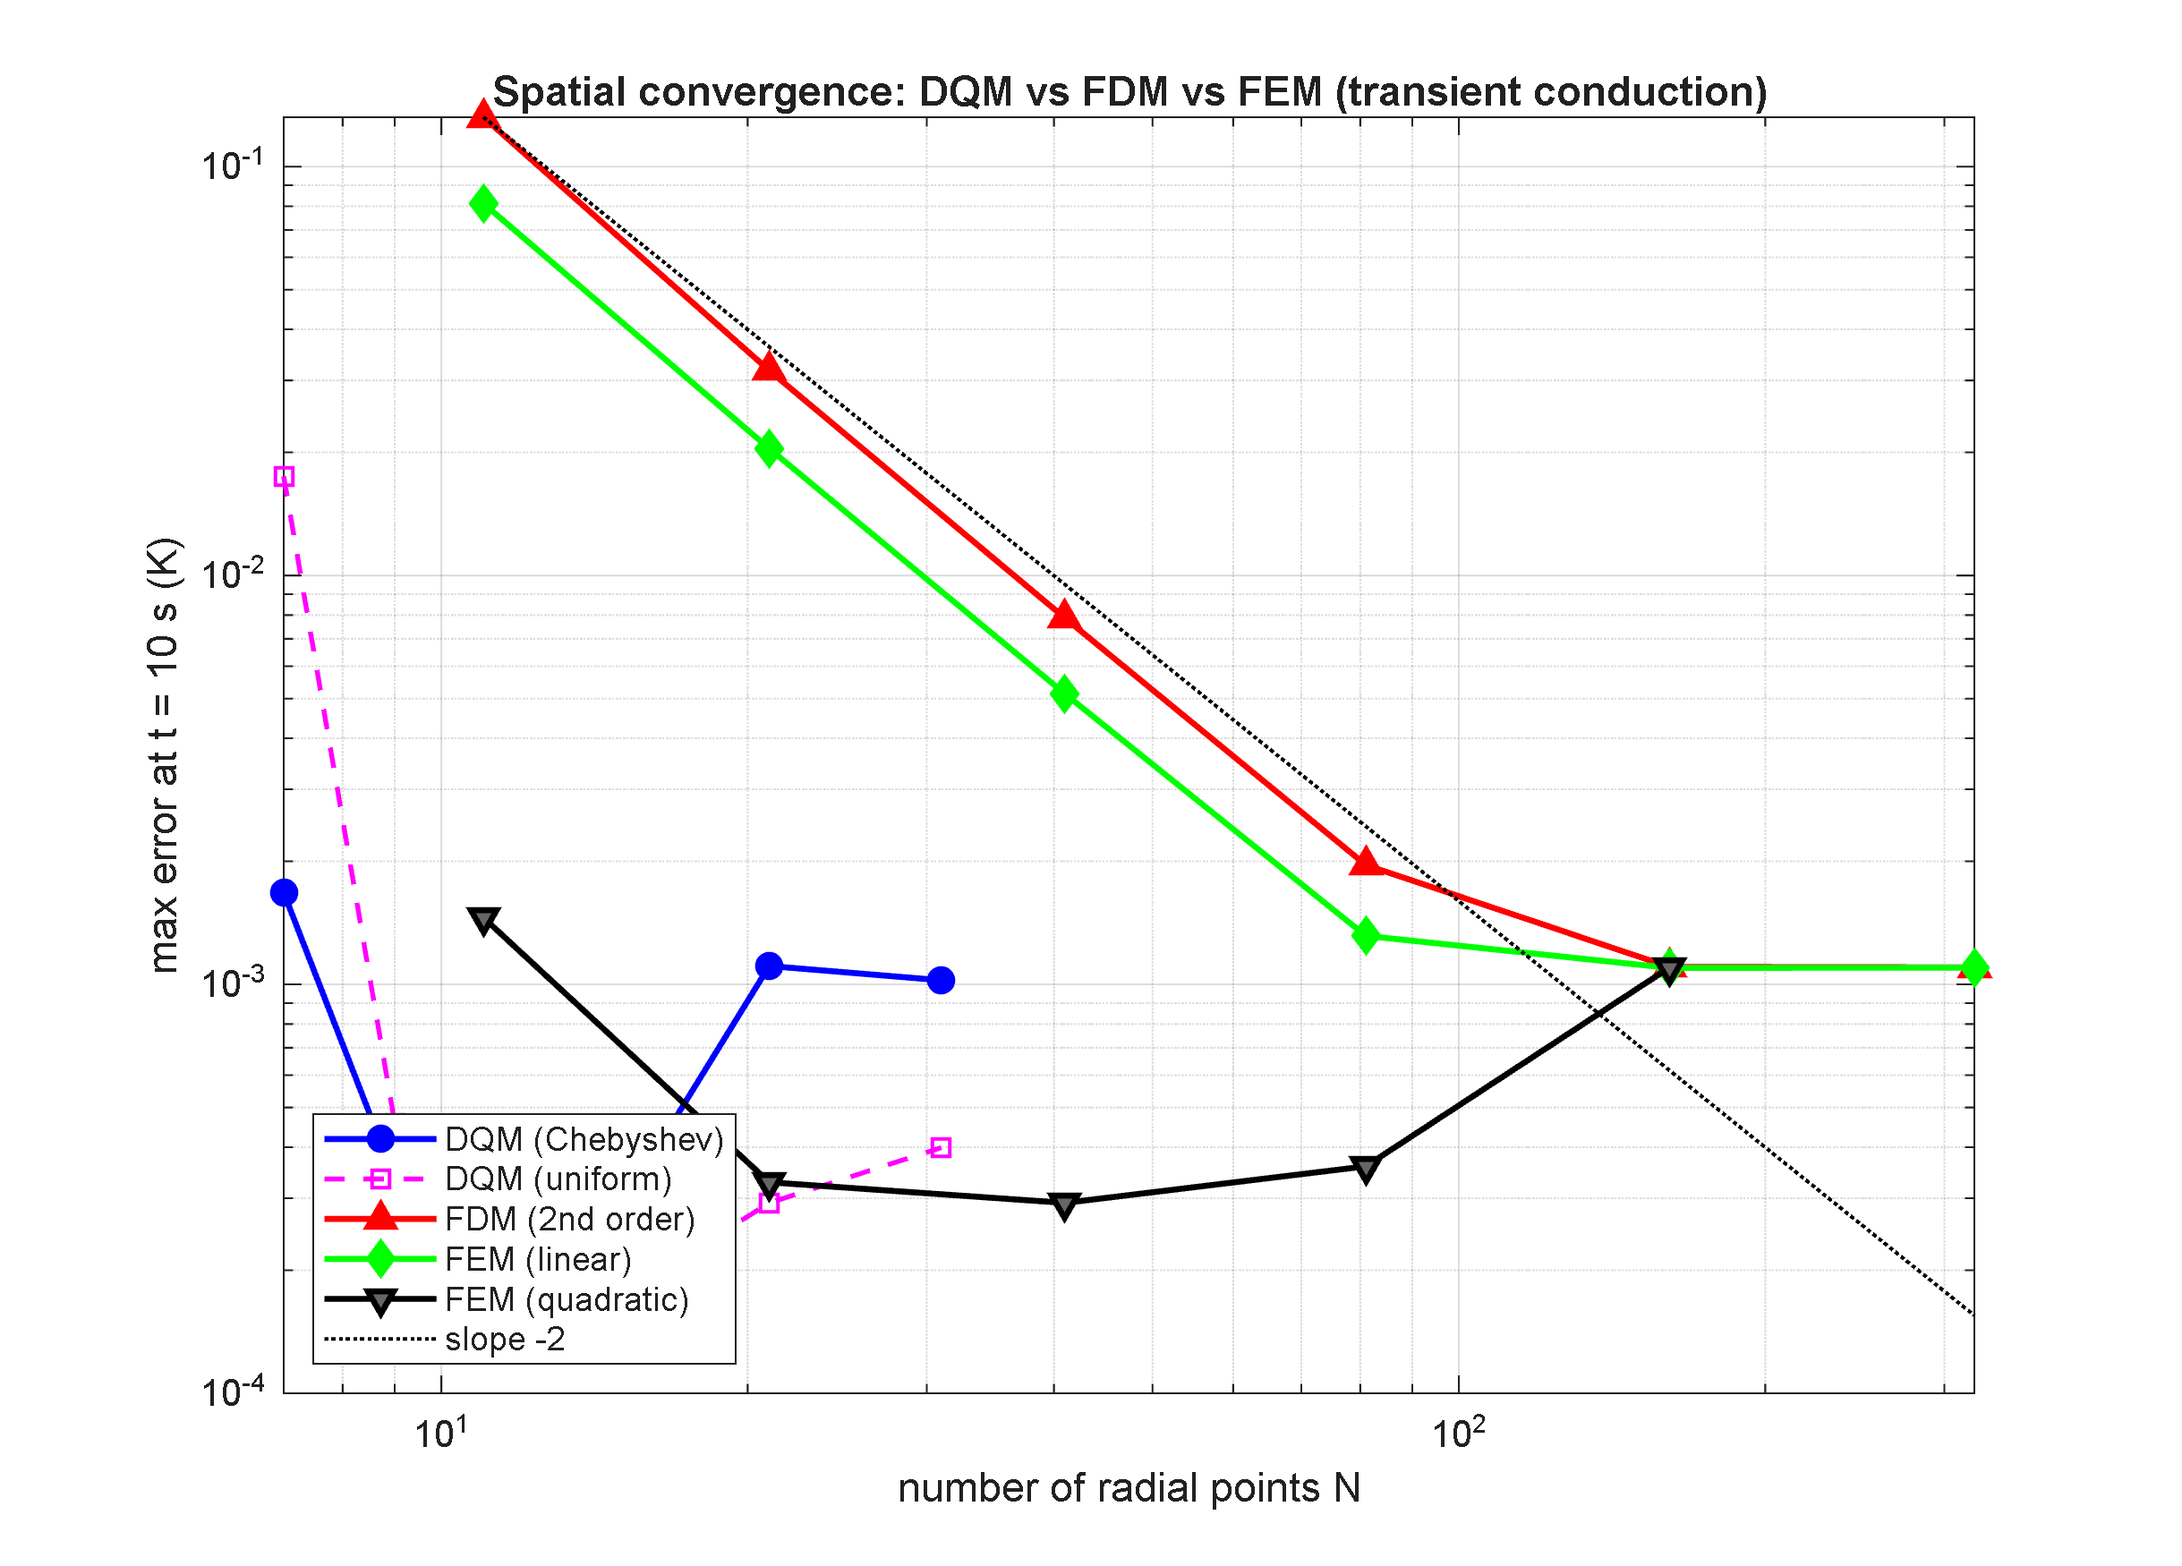
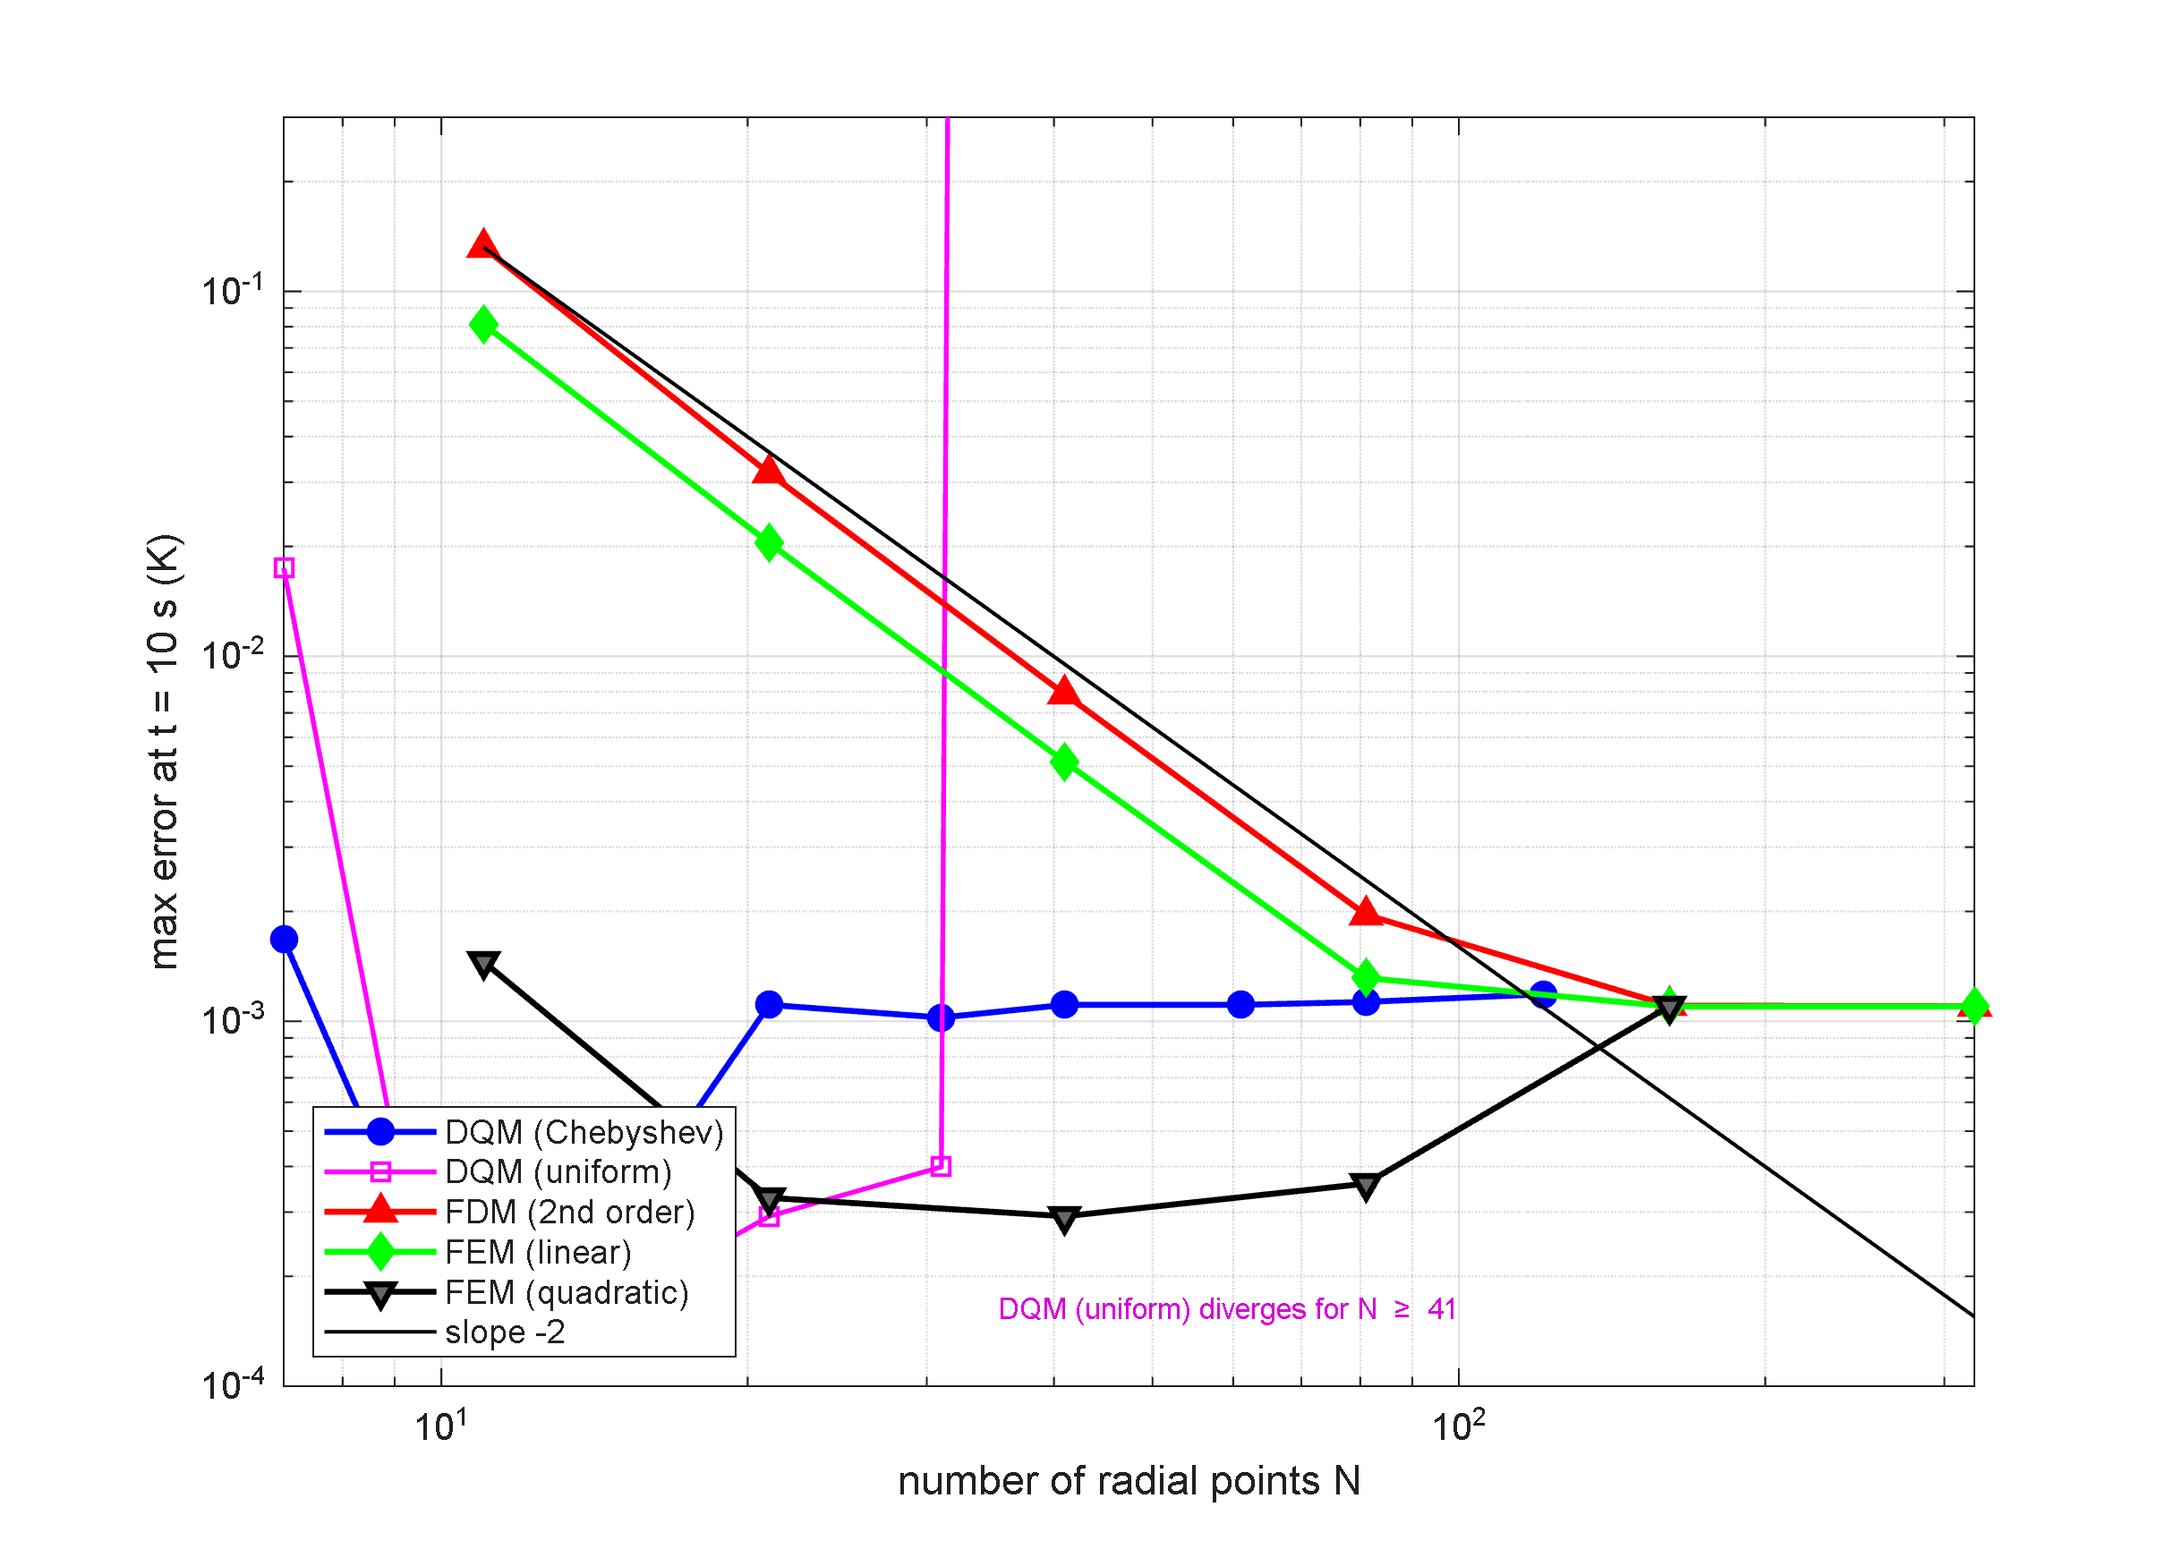
Add T2.2: extend DQM node sweep in the spatial-method comparison
New revision (T2_1 kept frozen) per author request: the DQM curves in
the spatial-discretization comparison figure stopped around N~20-31
while FDM/FEM ran out to N=321, so the comparison looked incomplete.
Extended Ns_dqm to [7 9 11 15 21 31 41 61 81 121 161 201].

Result: Chebyshev-node DQM stays well-conditioned and plateaus at the
same ~1.1e-3 K temporal-error floor as FDM/FEM through N=121 before
failing at N>=161 - now visibly comparable to FEM's convergence range.
Uniform-node DQM diverges catastrophically beyond N=31 (~1e47-1e52),
a textbook Runge-phenomenon result for global polynomial interpolation
on equally spaced nodes; annotated on the figure and y-axis capped so
it does not flatten the readable curves.

diff --git a/claude/code/extensions/claude_T2_2_spatial_methods.m b/claude/code/extensions/claude_T2_2_spatial_methods.m
@@ -1,0 +1,239 @@
+%% ========================================================================
+%  claude_T2_2_spatial_methods.m — SPATIAL DISCRETIZATION COMPARISON (T2.2)
+%  ------------------------------------------------------------------------
+%  Revision of claude_T2_1_spatial_methods.m (T2_1 kept frozen). Change:
+%    + DQM node sweep extended from [7 9 11 15 21 31] to
+%      [7 9 11 15 21 31 41 61 81 121 161 201] so the DQM curves span a
+%      comparable N-range to FDM/FEM (author request: DQM was stopping at
+%      N~20-31 while FDM/FEM run out to N=321, making it hard to see
+%      whether DQM keeps converging or degrades at higher N).
+%  Everything else is unchanged: same exact Bessel-series reference,
+%  same Newmark time march (dt = 0.01 s) so the measured error at t = 10 s
+%  is the SPATIAL error of each method.
+%  Output goes to results_extensions\ (method/theory comparisons are kept
+%  separate from the parametric campaign for the results chapter); this
+%  revision's output supersedes T2_1's on the same filenames.
+%  ========================================================================
+clearvars; clc; close all;
+
+k_th=50; rho_th=8000; c_th=500; kappa=k_th/(rho_th*c_th);
+Ri=0.08; Ro=0.1; hconv=2000; th0=200; t0r=5;
+t_end=10; dtt=0.01; Ntt=round(t_end/dtt);
+
+%% ---- exact solution ----
+b_c = -hconv/(k_th/Ro + hconv*log(Ro/Ri));  a_c = 1 - b_c*log(Ri);
+psi  = @(r) a_c + b_c*log(r);
+geig = @(l) -k_th*l.*(besselj(1,l*Ro).*bessely(0,l*Ri) - bessely(1,l*Ro).*besselj(0,l*Ri)) ...
+          + hconv*(besselj(0,l*Ro).*bessely(0,l*Ri) - bessely(0,l*Ro).*besselj(0,l*Ri));
+Rfun = @(l,r) besselj(0,l*r).*bessely(0,l*Ri) - bessely(0,l*r).*besselj(0,l*Ri);
+lam=zeros(60,1); nf=0; lg=linspace(1,40000,400000); gv=geig(lg);
+for i=1:numel(lg)-1
+    if nf>=60, break; end
+    if gv(i)*gv(i+1)<0, nf=nf+1; lam(nf)=fzero(geig,[lg(i),lg(i+1)]); end
+end
+lam=lam(1:nf); cn=zeros(nf,1);
+for n=1:nf
+    num=integral(@(r) psi(r).*Rfun(lam(n),r).*r, Ri,Ro,'AbsTol',1e-12,'RelTol',1e-10);
+    den=integral(@(r) Rfun(lam(n),r).^2.*r,      Ri,Ro,'AbsTol',1e-12,'RelTol',1e-10);
+    cn(n)=num/den;
+end
+bD=1/t0r;
+th_exact = @(r,t) th0*(1-exp(-t/t0r)).*psi(r) - ...
+    sum((cn.*Rfun(lam,r)).*(th0*bD*(exp(-bD*t)-exp(-lam.^2*kappa*t))./(lam.^2*kappa-bD)),1);
+
+% physical parameter bundle for the 1-D solver helpers (script-local
+% functions do NOT share the script workspace — pass everything explicitly)
+P = struct('k',k_th,'rhoc',rho_th*c_th,'h',hconv,'th0',th0,'t0r',t0r, ...
+           'dtt',dtt,'Ntt',Ntt,'Ri',Ri,'Ro',Ro);
+
+%% ---- sweeps -------------------------------------------------------------
+fprintf('===== T2.2: SPATIAL METHOD CONVERGENCE incl. FEM (error at t=10 s) =====\n');
+Ns_dqm = [7 9 11 15 21 31 41 61 81 121 161 201];
+err_dqm = nan(size(Ns_dqm)); err_dqu = err_dqm;
+for q = 1:numel(Ns_dqm)
+    N = Ns_dqm(q);
+    % Global-polynomial DQM differentiation matrices become ill-conditioned
+    % at high N (esp. uniform nodes, Runge-type blow-up); guard with
+    % try/catch so one bad N doesn't abort the whole sweep — a failed/NaN
+    % point is itself the informative result (method breaks down there).
+    try
+        rC = Ri + (Ro-Ri)/2*(1-cos(pi*(0:N-1)/(N-1)));  rC = rC(:);   % Chebyshev
+        thxC = arrayfun(@(rr) th_exact(rr, t_end), rC(:).');
+        [A1,A2] = dqw(rC);      err_dqm(q) = run1d(rC, A1, A2, P, thxC);
+    catch ME
+        fprintf('DQM  N=%3d : cheb FAILED (%s)\n', N, ME.message);
+    end
+    try
+        rU = linspace(Ri,Ro,N).';                                     % uniform
+        thxU = arrayfun(@(rr) th_exact(rr, t_end), rU(:).');
+        [B1,B2] = dqw(rU);      err_dqu(q) = run1d(rU, B1, B2, P, thxU);
+    catch ME
+        fprintf('DQM  N=%3d : uniform FAILED (%s)\n', N, ME.message);
+    end
+    fprintf('DQM  N=%3d : cheb err=%.3e   uniform err=%.3e\n', N, err_dqm(q), err_dqu(q));
+end
+Ns_fdm = [11 21 41 81 161 321];
+err_fdm = zeros(size(Ns_fdm));
+for q = 1:numel(Ns_fdm)
+    N = Ns_fdm(q);
+    r = linspace(Ri,Ro,N).';  h = r(2)-r(1);
+    D1 = zeros(N); D2 = zeros(N);
+    for i = 2:N-1
+        D1(i,i-1)=-1/(2*h); D1(i,i+1)=1/(2*h);
+        D2(i,i-1)=1/h^2; D2(i,i)=-2/h^2; D2(i,i+1)=1/h^2;
+    end
+    D1(1,1:3)=[-3 4 -1]/(2*h);  D1(N,N-2:N)=[1 -4 3]/(2*h);   % one-sided
+    thxF = arrayfun(@(rr) th_exact(rr, t_end), r(:).');
+    err_fdm(q) = run1d(r, D1, D2, P, thxF);
+    fprintf('FDM  N=%3d : err=%.3e\n', N, err_fdm(q));
+end
+
+% ---- NEW: FEM sweeps -----------------------------------------------------
+Ns_fe1 = [11 21 41 81 161 321];              % linear elements (N-1 elements)
+err_fe1 = zeros(size(Ns_fe1));
+for q = 1:numel(Ns_fe1)
+    N = Ns_fe1(q);
+    r = linspace(Ri,Ro,N).';
+    [Kf,Cf] = femmat(r, 1, P);
+    thxE = arrayfun(@(rr) th_exact(rr, t_end), r(:).');
+    err_fe1(q) = run1d_mat(Kf, Cf, P, thxE);
+    fprintf('FEM1 N=%3d : err=%.3e\n', N, err_fe1(q));
+end
+Ns_fe2 = [11 21 41 81 161];                  % quadratic (odd N, (N-1)/2 elems)
+err_fe2 = zeros(size(Ns_fe2));
+for q = 1:numel(Ns_fe2)
+    N = Ns_fe2(q);
+    r = linspace(Ri,Ro,N).';
+    [Kf,Cf] = femmat(r, 2, P);
+    thxE = arrayfun(@(rr) th_exact(rr, t_end), r(:).');
+    err_fe2(q) = run1d_mat(Kf, Cf, P, thxE);
+    fprintf('FEM2 N=%3d : err=%.3e\n', N, err_fe2(q));
+end
+
+%% ---- figure -------------------------------------------------------------
+outdir='results_extensions';  fdir=fullfile(outdir,'figures');
+if ~exist(fdir,'dir'), mkdir(fdir); end
+fig = figure('Position',[100 100 780 560],'Color','w');
+loglog(Ns_dqm, err_dqm, 'bo-', 'LineWidth',1.6,'MarkerFaceColor','b'); hold on;
+loglog(Ns_dqm, err_dqu, 'ms-','LineWidth',1.3);
+loglog(Ns_fdm, err_fdm, 'r^-', 'LineWidth',1.6,'MarkerFaceColor','r');
+loglog(Ns_fe1, err_fe1, 'gd-', 'LineWidth',1.6,'MarkerFaceColor','g');
+loglog(Ns_fe2, err_fe2, 'kv-', 'LineWidth',1.6,'MarkerFaceColor',[.4 .4 .4]);
+loglog(Ns_fdm, err_fdm(1)*(Ns_fdm(1)./Ns_fdm).^2, 'k-', 'LineWidth',1);
+xlabel('number of radial points N'); ylabel('max error at t = 10 s (K)');
+legend('DQM (Chebyshev)','DQM (uniform)','FDM (2nd order)', ...
+       'FEM (linear)','FEM (quadratic)','slope -2','Location','southwest');
+grid on; box on;
+% cap the y-axis: uniform-node DQM diverges to ~1e47-1e52 beyond N=31
+% (global-polynomial ill-conditioning), which would otherwise flatten
+% every other well-behaved curve into an unreadable line at the bottom.
+ylim([1e-4 3e-1]);
+text(35, 1.6e-4, 'DQM (uniform) diverges for N \geq 41', 'FontSize',8,'Color',[0.85 0 0.85]);
+saveas(fig, fullfile(fdir,'T2_spatial_convergence.fig'));
+print(fig, fullfile(fdir,'T2_spatial_convergence.png'), '-dpng','-r300');
+T = table([Ns_dqm.'; Ns_dqm.'; Ns_fdm.'; Ns_fe1.'; Ns_fe2.'], ...
+    [err_dqm.'; err_dqu.'; err_fdm.'; err_fe1.'; err_fe2.'], ...
+    [repmat("DQM-cheb",numel(Ns_dqm),1); repmat("DQM-unif",numel(Ns_dqm),1); ...
+     repmat("FDM",numel(Ns_fdm),1); repmat("FEM-lin",numel(Ns_fe1),1); ...
+     repmat("FEM-quad",numel(Ns_fe2),1)], ...
+    'VariableNames', {'N','max_err_K','method'});
+writetable(T, fullfile(outdir,'T2_spatial_table.csv'));
+fprintf('Saved %s\\figures\\T2_spatial_convergence + T2_spatial_table.csv\n', outdir);
+
+%% ---- helpers ------------------------------------------------------------
+function err = run1d(r, D1, D2, P, thx)
+    % 1-D radial transient conduction with inner ramp + outer convection.
+    % (unchanged from claude_T2_spatial_methods.m)
+    N = numel(r);
+    K = zeros(N); Cm = zeros(N);
+    for i = 2:N-1
+        K(i,:) = -P.k*( D2(i,:) + D1(i,:)/r(i) );
+        Cm(i,i) = P.rhoc;
+    end
+    K(1,1) = 1;                                     % theta = ramp(t)
+    K(N,:) = P.k*D1(N,:);  K(N,N) = K(N,N) + P.h;   % convection
+    err = march(K, Cm, P, thx);
+end
+
+function err = run1d_mat(K, Cm, P, thx)
+    % same Newmark march for a PRE-ASSEMBLED (weak-form) system.
+    % Inner Dirichlet row is already the constraint row K(1,:)=[1 0...0].
+    err = march(K, Cm, P, thx);
+end
+
+function err = march(K, Cm, P, thx)
+    N = size(K,1);
+    s_row = max(abs([K, (2/P.dtt)*Cm]),[],2); s_row(s_row==0)=1;
+    K = K./s_row; Cm = Cm./s_row; rs1 = 1/s_row(1);
+    a0=1/(0.25*P.dtt^2); a1=0.5/(0.25*P.dtt); a2=1/(0.25*P.dtt); a3=1;
+    a4=1; a5=0; a6=P.dtt*0.5; a7=P.dtt*0.5;
+    Keff = K + a1*Cm;                               % M = 0 (Fourier)
+    x=zeros(N,1); xd=x; xdd=x;
+    [Lf,Uf,pp] = lu(Keff,'vector');
+    for n = 1:P.Ntt
+        t = n*P.dtt;
+        F = zeros(N,1);  F(1) = P.th0*(1-exp(-t/P.t0r))*rs1;
+        rhs = F + Cm*(a1*x + a4*xd + a5*xdd);
+        xn = Uf\(Lf\rhs(pp));
+        xddn = a0*(xn-x) - a2*xd - a3*xdd;
+        xd = xd + a6*xdd + a7*xddn;  x = xn;  xdd = xddn;
+    end
+    err = max(abs(x(2:end-1).' - thx(2:end-1)));
+end
+
+function [K, Cm] = femmat(r, order, P)
+    % Galerkin FEM for  rho*c dth/dt - k (th'' + th'/r) = 0  on [Ri,Ro],
+    % weak form with cylindrical weight r:
+    %   K_ij  = int k Ni' Nj' r dr   (+ h*Ro at outer node)
+    %   Cm_ij = int rho*c Ni Nj r dr
+    % order 1: 2-node linear elements; order 2: 3-node quadratic (N odd).
+    N = numel(r);
+    K = zeros(N); Cm = zeros(N);
+    if order == 1
+        for e = 1:N-1
+            r1=r(e); r2=r(e+1); Le=r2-r1; idx=[e e+1];
+            Ke = P.k*(r1+r2)/(2*Le)*[1 -1; -1 1];
+            Ce = P.rhoc*Le/12*[3*r1+r2, r1+r2; r1+r2, r1+3*r2];
+            K(idx,idx)  = K(idx,idx)  + Ke;
+            Cm(idx,idx) = Cm(idx,idx) + Ce;
+        end
+    else
+        assert(mod(N,2)==1, 'quadratic FEM needs odd N');
+        % 3-point Gauss (exact for the degree-5 integrands here)
+        gp = [-sqrt(3/5) 0 sqrt(3/5)];  gw = [5/9 8/9 5/9];
+        for e = 1:(N-1)/2
+            idx = 2*e-1 : 2*e+1;  re = r(idx);  Le = re(3)-re(1);
+            Ke = zeros(3); Ce = zeros(3);
+            for g = 1:3
+                xi = gp(g);
+                Nsh  = [xi*(xi-1)/2, 1-xi^2, xi*(xi+1)/2];
+                dNxi = [xi-1/2,      -2*xi,  xi+1/2];
+                rg   = re(1) + (xi+1)*Le/2;         % equally spaced nodes
+                dNdr = dNxi*(2/Le);
+                Ke = Ke + gw(g)*P.k    *(dNdr.'*dNdr)*rg*(Le/2);
+                Ce = Ce + gw(g)*P.rhoc *(Nsh.' *Nsh )*rg*(Le/2);
+            end
+            K(idx,idx)  = K(idx,idx)  + Ke;
+            Cm(idx,idx) = Cm(idx,idx) + Ce;
+        end
+    end
+    K(N,N) = K(N,N) + P.h*P.Ro;        % natural convection BC (weak form)
+    K(1,:) = 0; K(1,1) = 1; Cm(1,:) = 0;   % inner Dirichlet constraint row
+end
+
+function [A,B] = dqw(x)
+    N = numel(x);  A = zeros(N);
+    for i = 1:N
+        for j = 1:N
+            if i~=j
+                num=1; den=1;
+                for k=1:N
+                    if k~=i && k~=j, num=num*(x(i)-x(k)); den=den*(x(j)-x(k)); end
+                end
+                A(i,j) = num/(den*(x(j)-x(i)));
+            end
+        end
+    end
+    for i=1:N, A(i,i) = -sum(A(i,:)); end
+    B = A*A;
+end

diff --git a/claude/REVISIONS.md b/claude/REVISIONS.md
@@ -25,6 +25,11 @@
 
 <!-- 2026-08-05 CODE AUDIT / REORG (Prom 5 #6): current solver = claude_R8 (physics ≡ R7; the Ch4 campaign still invokes R7). Current campaign = campaign/run_ch4_campaign.ps1 + run_nz_sweep.ps1 → param_studies_ch4 (86 cases). Current Ch4 figures = claude_catalog_R6* family. Current stats = code/misc/claude_chapter_stats_ch4.m → chapter_stats.csv. ARCHIVED to code/_archive/ (17 files): param_figures lineage, catalog_R1..R5(+color), old claude_chapter_stats.m, test_r5_hooke.m, claude_T2_spatial_methods.m (superseded by T2_1). ARCHIVED to campaign/_archive/ (7 files): run_param_studies v1..v6, run_R6_verify.ps1. The old param_studies/ folder (old-geometry NL=5 runs) was deleted. Both code_docs updated to R8/current pipeline; matrix documented as epoxy. -->
 
+### 2a. Methodological extension studies (T1/T2/T3, `code/extensions/`, output → `results_extensions/`)
+| Artifact | Current | History |
+|---|---|---|
+| `claude_T2*_spatial_methods.m` (spatial-discretization comparison: DQM vs FDM vs FEM) | **T2.2** | T2 (archived, superseded) → **T2_1** = added FEM (linear + quadratic Galerkin) alongside DQM/FDM, kept T2 frozen → **T2.2 (2026-08-22, minor)** = extended the DQM node sweep from `[7 9 11 15 21 31]` to `[7 9 11 15 21 31 41 61 81 121 161 201]` (author request: DQM curves stopped around N≈20–31 while FDM/FEM ran out to N=321, making the comparison look incomplete). Finding: **Chebyshev-node DQM stays well-conditioned and plateaus at the same temporal-error floor (~1.1e-3 K) as FDM/FEM all the way through N=121**, then fails (NaN) at N≥161 — evidence it converges over a comparable range, just like FEM. **Uniform-node DQM diverges catastrophically beyond N=31** (error ~1e47–1e52 at N=41/61, then NaN) — classic Runge-phenomenon ill-conditioning of a global polynomial basis on equally spaced nodes; annotated directly on the figure rather than left unexplained. y-axis capped at `[1e-4, 3e-1]` so the divergent uniform-DQM branch doesn't flatten the readable curves. `T2_1` kept frozen/untouched — the fix was made in a new `T2_2` copy per the revision-number rule. |
+
 
 ## 3. Quantity CATALOG (figure-selection tool)
 | Artifact | Current | History |
